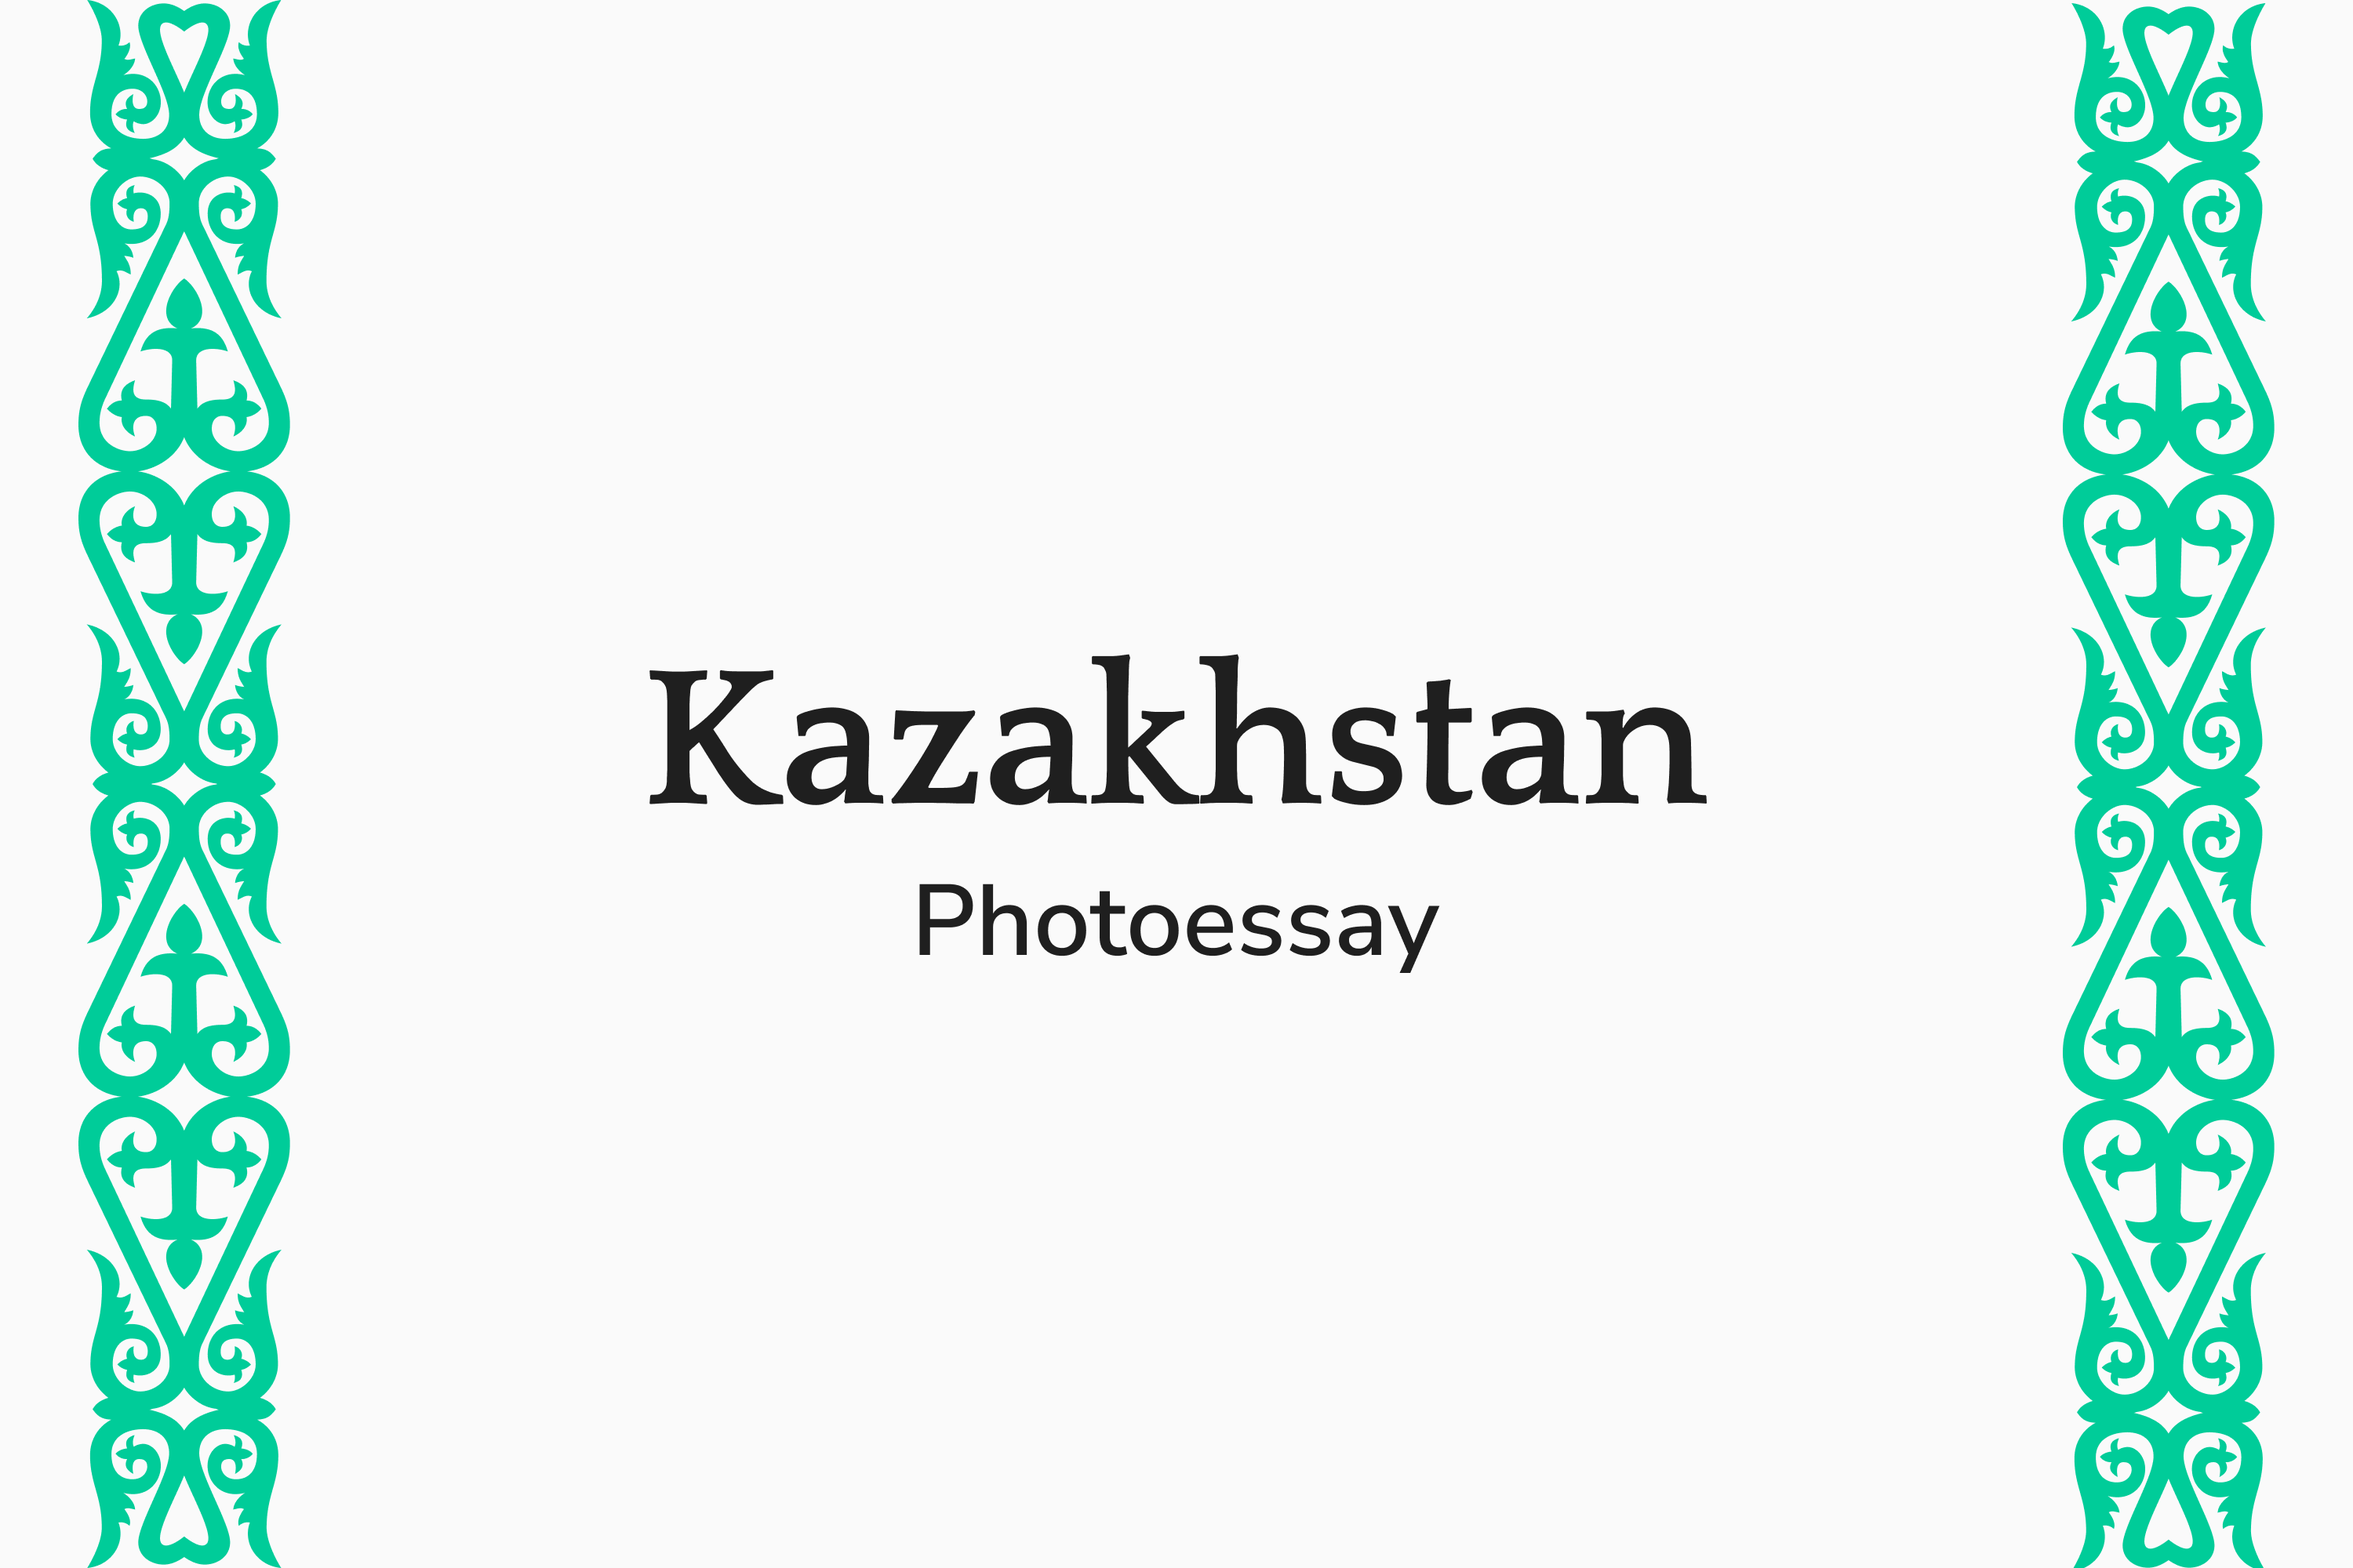
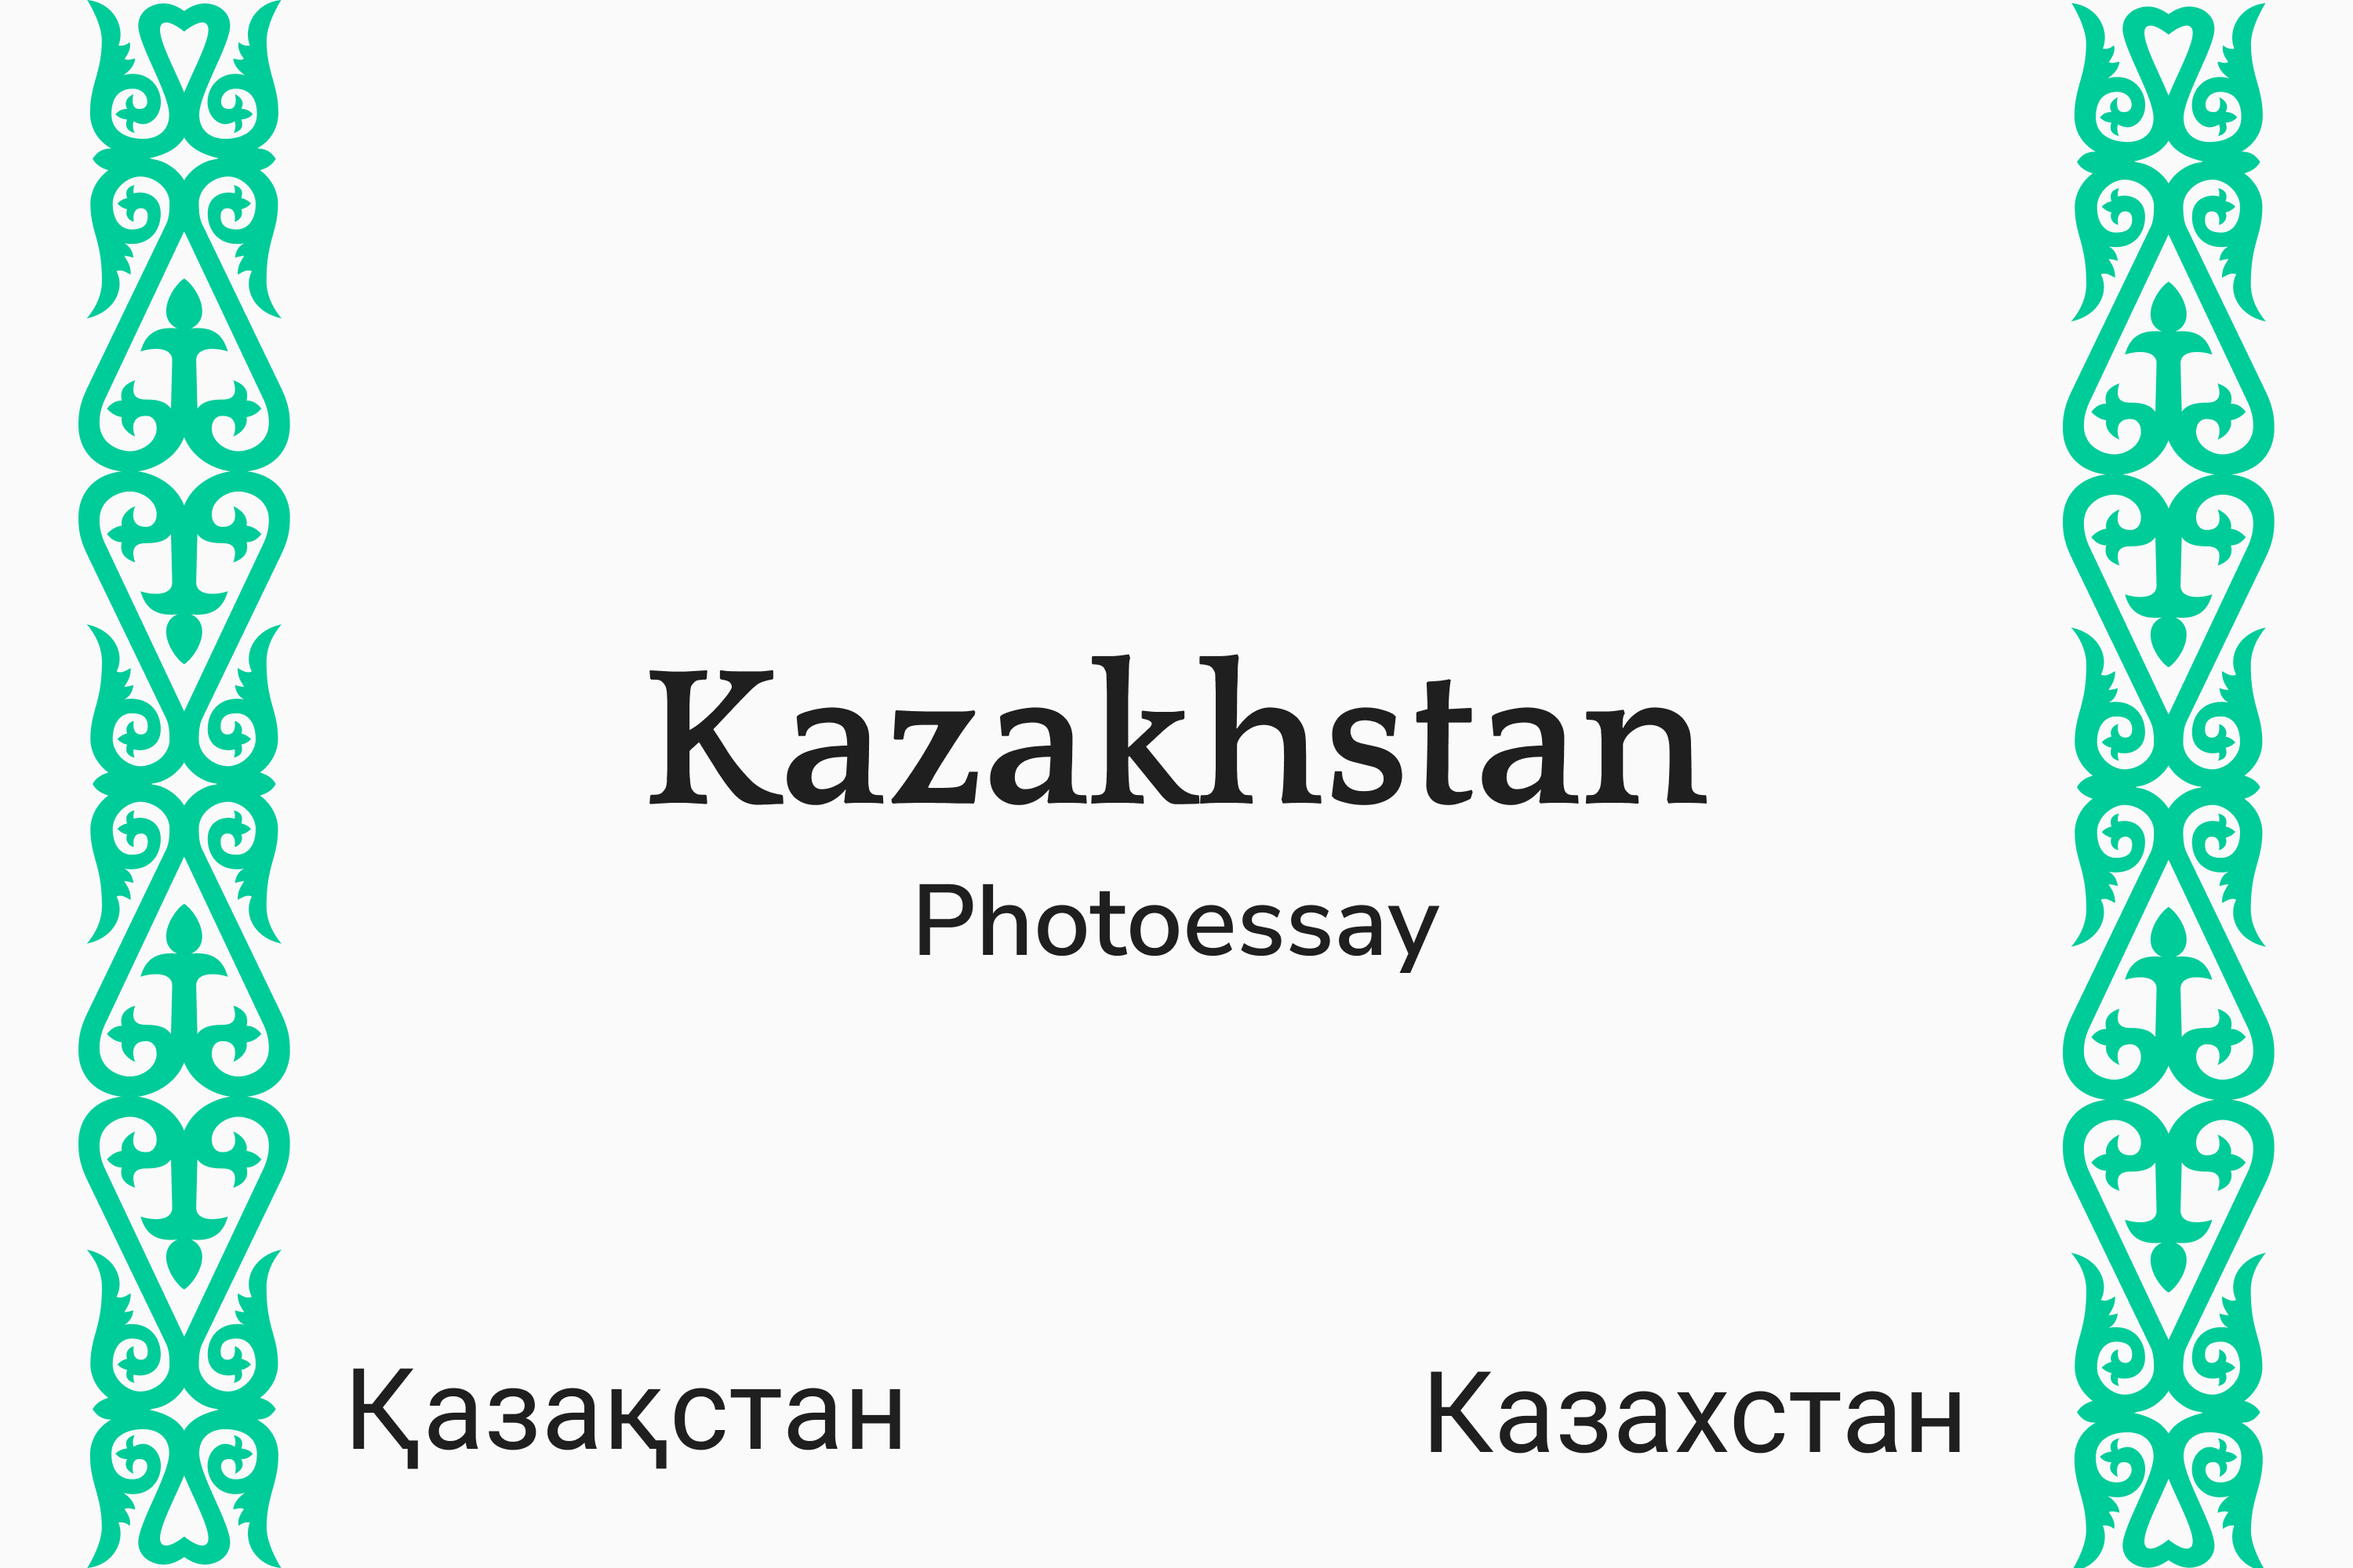
new title, description, keywords  and editted cover image

Changed region(s): [[0.124, 0.868, 0.403, 0.93], [0.589, 0.868, 0.837, 0.93]]

diff --git a/_site/index.html b/_site/index.html
@@ -77,7 +77,7 @@
             
               <div class="blog-list">
                 <img src="/images/blog/04-Kazakh-photoessay/feature-image.png" alt="Feature Image of the Blogpost" class="blog-roll-image">
-                <h3>Kazakhstan Photoessay</h3>
+                <h3>A Week in Kazakhstan</h3>
                 <div class="caption">Explore my week-long adventure through Kazakhstan's stunning landscapes and vibrant culture, brought to life in 36 captivating photos.</div>
                 <p class="caption">21 Aug 2024</p>
                 <a class="secondary-button" id="secondary-text" href="/blog/kazakh-photoessay">Continue Reading</a>

diff --git a/_posts/2024-08-21-kazakh-photoessay.html b/_posts/2024-08-21-kazakh-photoessay.html
@@ -1,6 +1,6 @@
 ---
 layout: post
-title: Kazakhstan Photoessay
+title: A Week in Kazakhstan
 permalink: blog/kazakh-photoessay
 image: /images/blog/04-Kazakh-photoessay/feature-image.png
 description: Explore my week-long adventure through Kazakhstan's stunning landscapes and vibrant culture, brought to life in 36 captivating photos.

diff --git a/_site/blog.html b/_site/blog.html
@@ -67,7 +67,7 @@
 <ul>
     
 
-    <li class="blog-index"><div class="date"> 21-08-2024 </div> <a class="blog-link" href="/blog/kazakh-photoessay">Kazakhstan Photoessay</a></li>
+    <li class="blog-index"><div class="date"> 21-08-2024 </div> <a class="blog-link" href="/blog/kazakh-photoessay">A Week in Kazakhstan</a></li>
 
     
 
